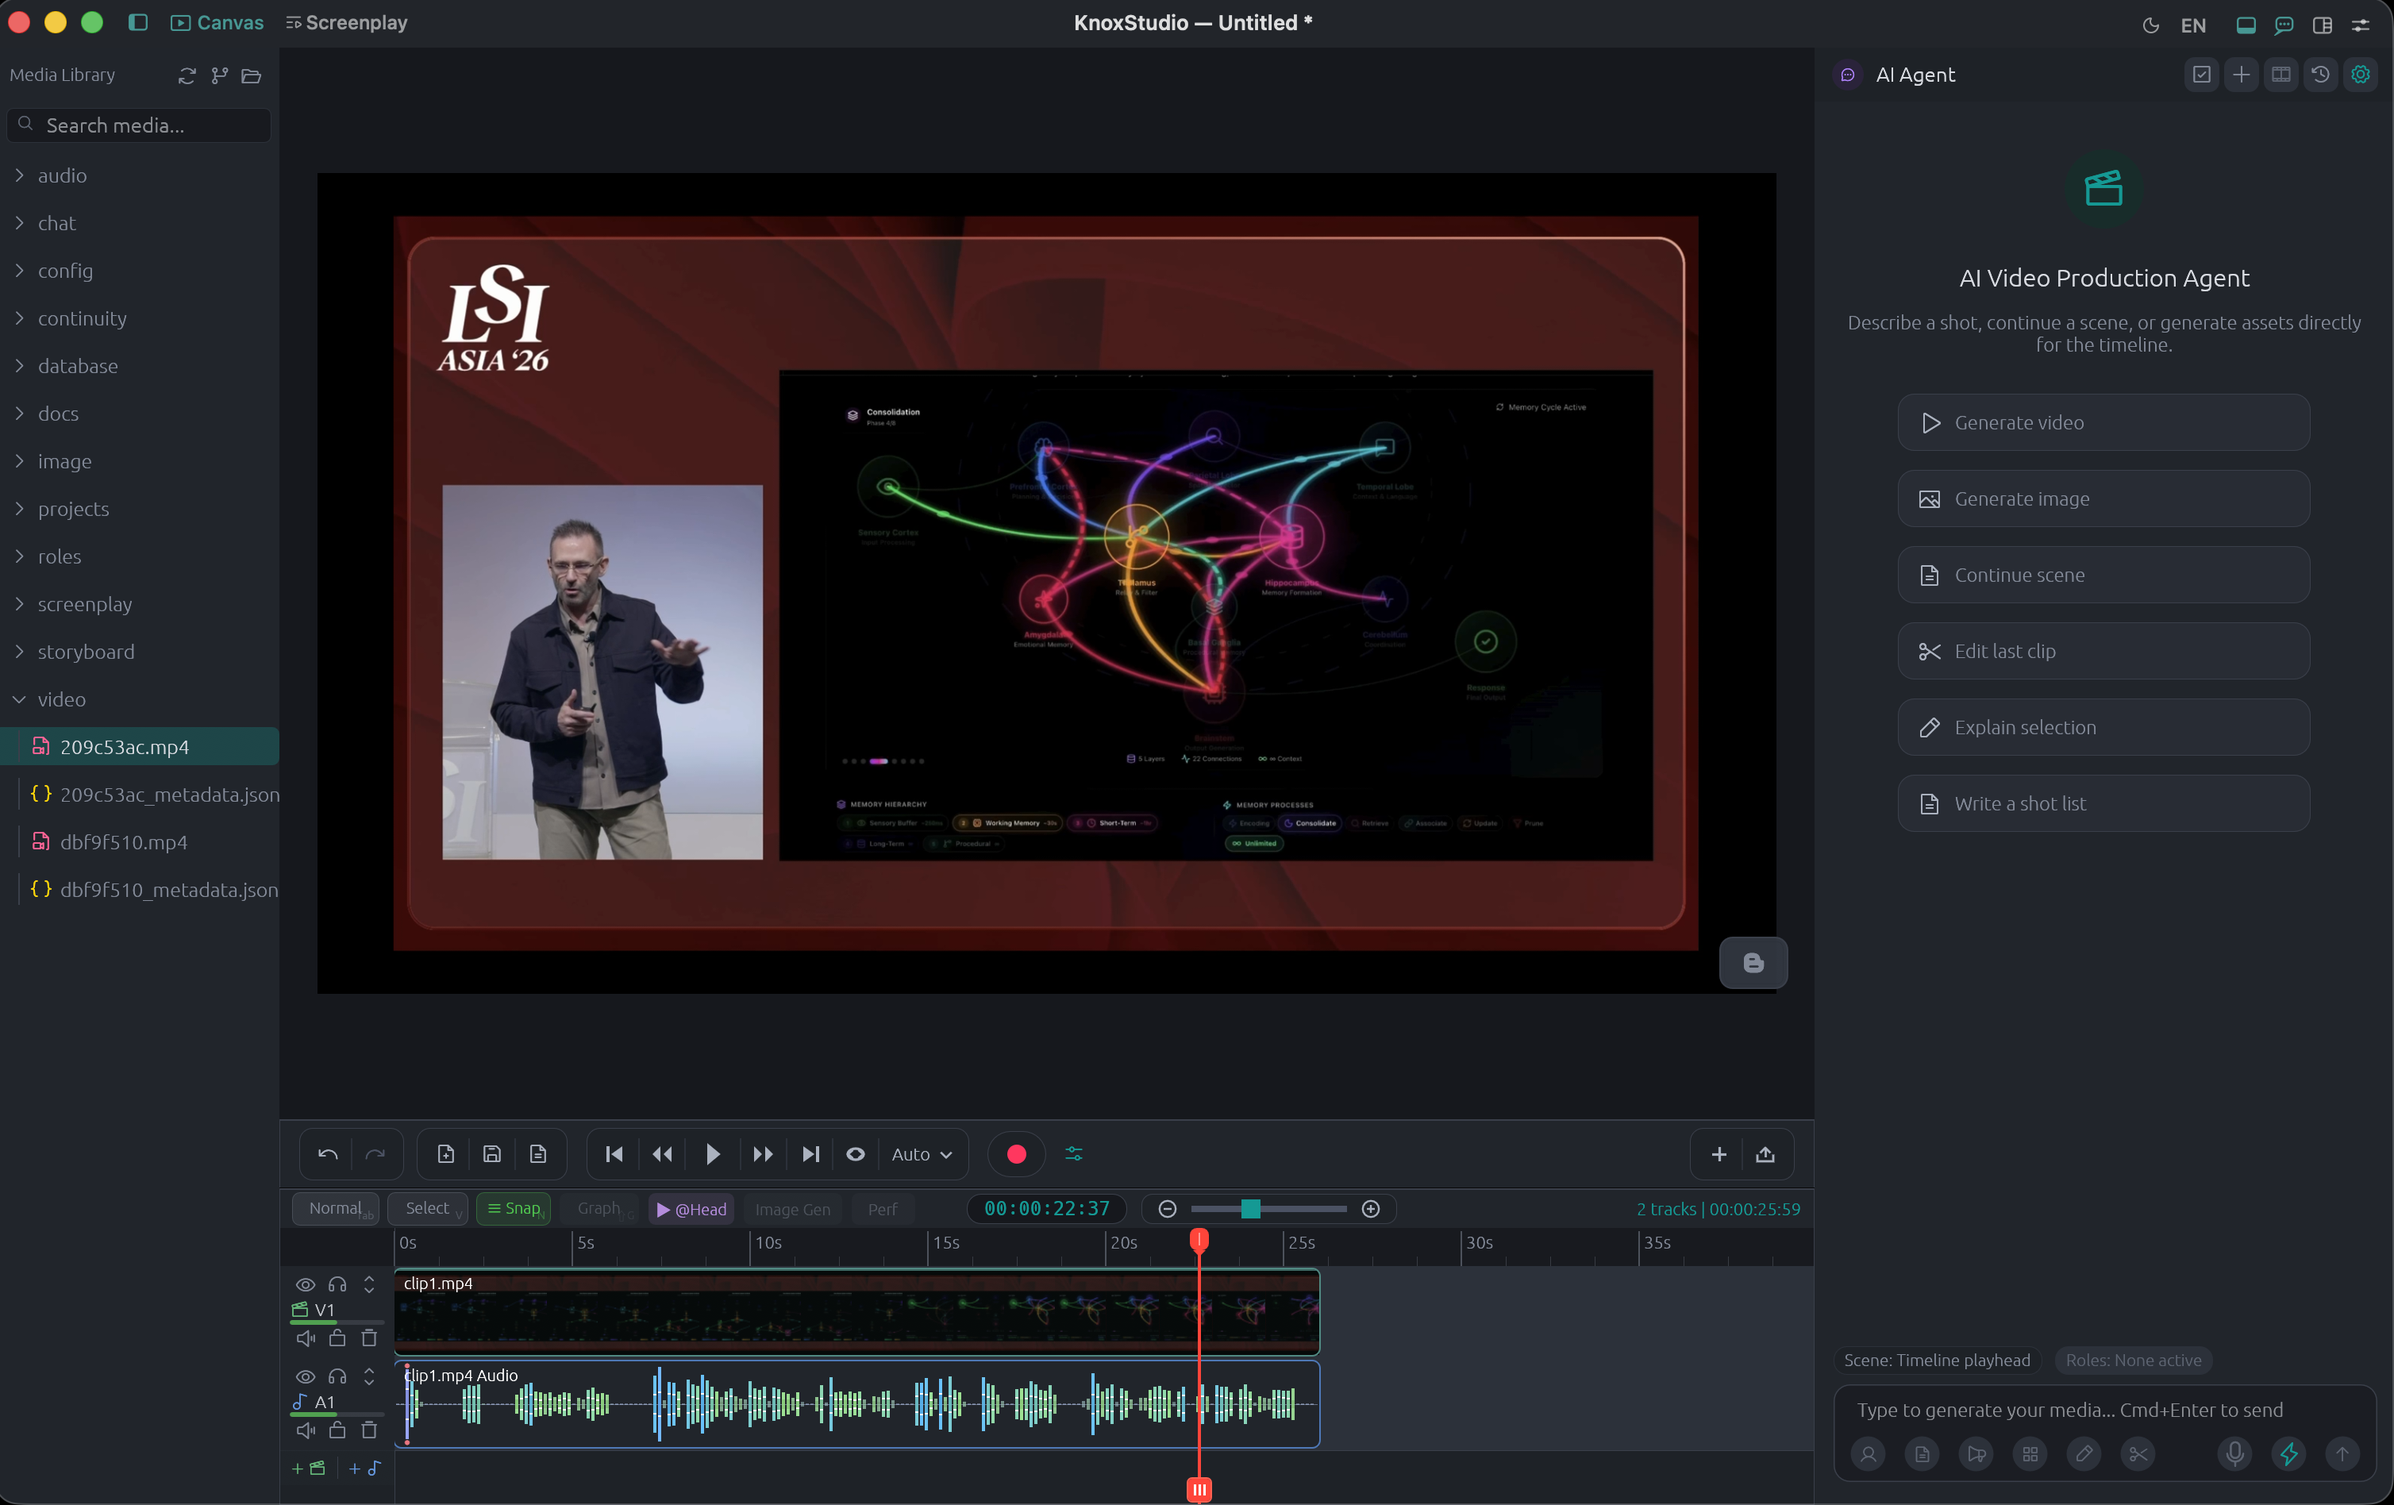
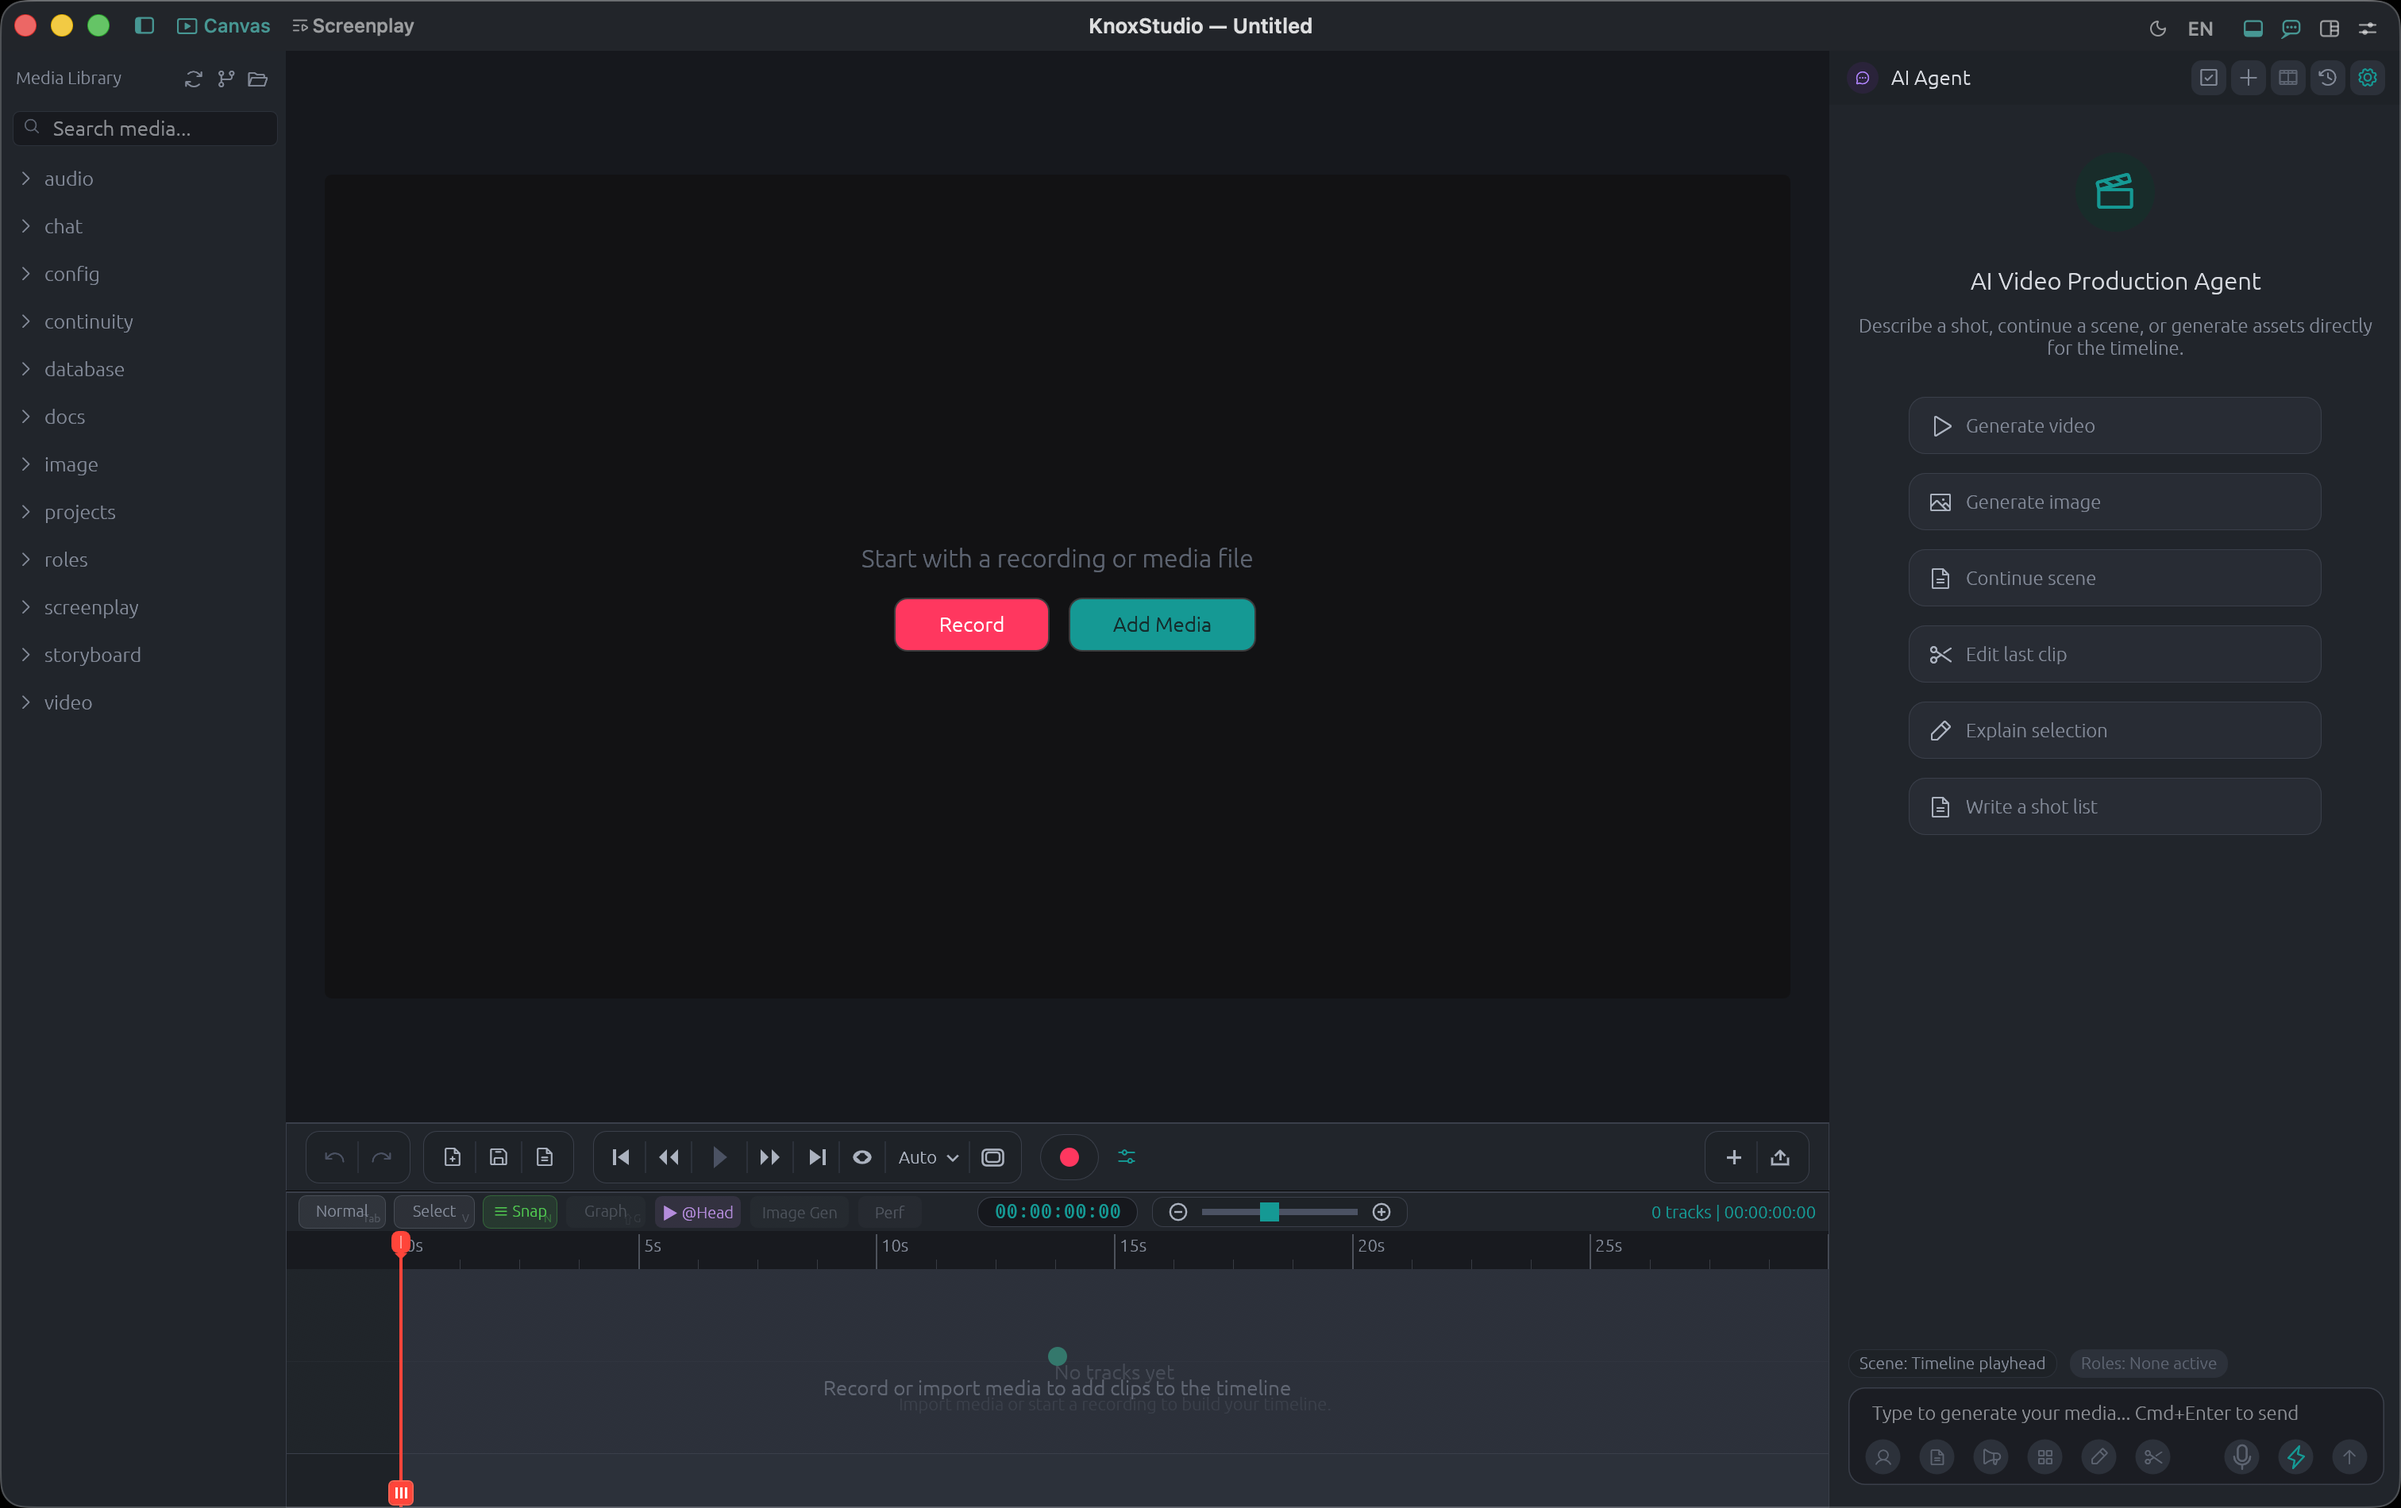
Release version 1.4.3

diff --git a/README.md b/README.md
@@ -11,7 +11,6 @@ Whether you're teaching a course, shipping a product demo, telling a story, or p
 | ![](./media/dark-theme.png) |
 |-|
 
-
 ## Why KnoxStudio?
 
 Most people who make videos juggle a messy stack of tools: one app to record, another to edit, a third for voiceover, a fourth for AI generation, and endless exporting and re-importing in between. It's slow, expensive, and exhausting.
@@ -20,7 +19,6 @@ KnoxStudio replaces that entire stack. Recording, editing, audio, annotations, s
 
 It's built for macOS from the ground up — so it launches fast, stays responsive on long timelines, respects system permissions, and feels at home with keyboard shortcuts, light and dark themes, and a clean interface that gets out of your way.
 
-
 ## Who It's For
 
 - **Educators & course creators** — record lessons, add callouts and numbered steps, and export crisp tutorials.
@@ -28,7 +26,6 @@ It's built for macOS from the ground up — so it launches fast, stays responsiv
 - **Content creators & storytellers** — write a screenplay, let AI direct it into shots, and assemble it on a real timeline.
 - **Founders & professionals** — explain features, pitch ideas, and share knowledge without hiring a video team.
 - **Anyone** who wants studio-quality results without a studio-sized learning curve or budget.
-
 
 ## What You Can Do
 
@@ -85,7 +82,6 @@ Import video, audio, and images by dragging them in. Browse everything in a Medi
 | Screenplay | Markdown, Fountain, plain text, JSON, YAML |
 
 Projects save as `.knoxstudio` documents you can double-click to reopen. Autosave snapshots, recent files, and missing-media relink help keep long projects safe.
-
 
 ## AI That Works Like a Production Crew
 
@@ -164,7 +160,6 @@ Keep your cast consistent across every generated shot:
 
 Generate multiple AI takes, compare them side by side, and choose **Use** on the one that wins. Creative decisions stay yours; the agent just multiplies your options.
 
-
 ## Export Anywhere
 
 When you're done, export exactly what you need — with annotations, click effects, transforms, transitions, and your full multi-track mix rendered faithfully.
@@ -181,7 +176,6 @@ When you're done, export exactly what you need — with annotations, click effec
 
 Choose resolution presets up to **4K**, a percentage of the source, or a custom size. Dial in bitrate and quality (fast / normal / slow). Built-in presets cover common goals — Screen Tutorial 1080p, Course Master 4K, Web Preview 720p, Animated GIF Small, Audio MP3, and Audio WAV — and you can save your own. Filenames follow your project name, progress shows ETA, and output is verified after export so you can publish with confidence.
 
-
 ## What Makes It Different
 
 | Advantage | What it means for you |
@@ -197,11 +191,10 @@ Choose resolution presets up to **4K**, a percentage of the source, or a custom 
 | **Reliable by design** | Autosave with rotating snapshots, crash and recording recovery, project integrity checks, and export verification |
 | **Ready for everyone** | English and Simplified Chinese, approachable UI with pro depth underneath |
 
-
 ## Getting Started
 
 1. **Install KnoxStudio** on your Mac (macOS 13 or later, Apple Silicon or Intel).
-2. **Launch the app** and follow first-run setup — language, theme, media engine check, and permissions for Screen Recording, Camera, and Microphone as needed.
+2. **Launch the app.** Set language and theme in Preferences if you want, and grant Screen Recording, Camera, and Microphone permissions when you start recording.
 3. **Pick how you want to begin:**
    - **Record** your screen, camera, microphone, and system audio
    - **Import** existing video, audio, or images by dragging them in
@@ -214,8 +207,7 @@ Press **?** anytime inside the app for the full keyboard shortcut list.
 
 ### AI setup (optional)
 
-To use Manager, Editor, Director, and generation features, add your [KnoxChat API key](https://knox.chat) in Preferences. Models and capabilities update from the live KnoxChat catalog so you always see what's available. Your keys are stored securely in the macOS Keychain.
-
+To use Manager, Editor, Director, and generation features, open **Preferences → Defaults** and choose **Sign in with KnoxStudio**. The app mints a hidden API key after you allow access in the browser and stores it in the macOS Keychain. You can still paste a key under **Advanced**. Models and capabilities update from the live KnoxChat catalog so you always see what's available.
 
 ## Languages, Themes & Accessibility
 
@@ -223,7 +215,6 @@ To use Manager, Editor, Director, and generation features, add your [KnoxChat AP
 - **Dark** and **Light** themes (including high-contrast variants)
 - Full keyboard navigation and VoiceOver-friendly labels
 - In-app shortcut overlay so power users never have to leave the keyboard
-
 
 ## System Requirements
 
@@ -235,11 +226,18 @@ To use Manager, Editor, Director, and generation features, add your [KnoxChat AP
 | **Projects** | `.knoxstudio` document packages |
 | **Updates** | In-app update checks from official releases; signed and notarized distribution |
 
+## Contributing
+
+Developers: see **[CONTRIBUTING.md](CONTRIBUTING.md)** for setup, the required pre-commit Cargo gate (`fmt --check`, `clippy -D warnings`, `cargo test`), and the pull request process.
+
+```bash
+make setup
+make pre-commit
+```
 
 ## Acknowledgments
 
 KnoxStudio uses **FFmpeg** for media processing. FFmpeg is free software licensed under the [LGPL 2.1 or later](https://www.ffmpeg.org/legal.html). See the About dialog and bundled license materials in the app for details.
-
 
 ## The Bottom Line
 

diff --git a/CONTRIBUTING.md b/CONTRIBUTING.md
@@ -24,18 +24,19 @@ Deeper architecture notes live in [docs/ARCHITECTURE.md](docs/ARCHITECTURE.md). 
 4. [First-time setup](#first-time-setup)
 5. [Repository map](#repository-map)
 6. [Day-to-day development](#day-to-day-development)
-7. [Required quality gate (before every commit)](#required-quality-gate-before-every-commit)
-8. [What each check means](#what-each-check-means)
-9. [Git hook](#git-hook)
-10. [Testing](#testing)
-11. [Code style](#code-style)
-12. [Internationalization](#internationalization)
-13. [Native Swift / FFI](#native-swift--ffi)
-14. [Do not change without review](#do-not-change-without-review)
-15. [Branch, commit, and pull request](#branch-commit-and-pull-request)
-16. [Review checklist](#review-checklist)
-17. [Troubleshooting](#troubleshooting)
-18. [Maintainer-only work](#maintainer-only-work)
+7. [Signing in locally against staging](#signing-in-locally-against-staging)
+8. [Required quality gate (before every commit)](#required-quality-gate-before-every-commit)
+9. [What each check means](#what-each-check-means)
+10. [Git hook](#git-hook)
+11. [Testing](#testing)
+12. [Code style](#code-style)
+13. [Internationalization](#internationalization)
+14. [Native Swift / FFI](#native-swift--ffi)
+15. [Do not change without review](#do-not-change-without-review)
+16. [Branch, commit, and pull request](#branch-commit-and-pull-request)
+17. [Review checklist](#review-checklist)
+18. [Troubleshooting](#troubleshooting)
+19. [Maintainer-only work](#maintainer-only-work)
 
 ---
 
@@ -155,7 +156,7 @@ Screen Recording, Camera, and Microphone permissions are requested when you use 
 
 ```
 knox-studio/
-├── Cargo.toml                 # package knoxstudio 1.3.9, edition 2024, rust-version 1.98.0
+├── Cargo.toml                 # package knoxstudio 1.4.3, edition 2024, rust-version 1.98.0
 ├── rust-toolchain.toml        # pins rustc 1.98.0 + rustfmt + clippy
 ├── Makefile                   # build, test, lint, bundle, release
 ├── build.rs                   # Swift FFI compile, macOS 13 deployment target
@@ -212,6 +213,37 @@ Suggested loop:
 4. Run `cargo fmt --all` while iterating.
 5. Before `git commit`, run `make pre-commit` (the hook will run it anyway).
 6. Open a pull request only when the gate is green.
+
+---
+
+## Signing in locally (OAuth)
+
+`make run` and `cargo run -- --debug` open the **local** website and exchange tokens against the **local** backend. A release build opens `https://knoxstudio.ai/oauth2/authorize` and exchanges tokens at `https://api.knox.chat`.
+
+Prerequisites (already the usual local stack):
+
+1. Backend on `:4000` — `cd backend && cargo run`
+2. Website on `:3001` — `cd website && npm run dev`
+3. Local Postgres has the `knox_studio_desktop` row (migration `202608311800_seed_knoxstudio_desktop_oauth`)
+
+Then in desktop:
+
+```bash
+make run                 # OAuth → http://localhost:3001 and http://localhost:4000
+cargo run -- --debug     # same defaults
+```
+
+Sign in on `http://localhost:3001` if the consent page asks you to log in. The loopback redirect is always `http://127.0.0.1:8732/callback`. Do not pick another port if 8732 is busy — free the port instead. Do not put a client secret in the desktop binary.
+
+A local sign-in mints a key against `localhost:4000`. Manager/Editor still call `https://api.knox.chat` unless you also change those endpoints — use Sign out before a production test so the local `sk-` is not left in Keychain.
+
+To point a debug build at staging or production instead:
+
+```bash
+export KNOX_OAUTH_AUTHORIZE_URL=https://knoxstudio.ai/oauth2/authorize
+export KNOX_OAUTH_API_BASE=https://api.knox.chat
+make run
+```
 
 ---
 

diff --git a/CHANGELOG.md b/CHANGELOG.md
@@ -1,5 +1,21 @@
 # Changelog
 
+## [1.4.3]
+
+- Shortener storyboard_projects to be storyboard for media library list
+- Keeps a quarter-screen of empty room after the last clip
+- Move Title-safe feature to transport from canvas
+- Clickable target in the app uses the pointing-hand cursor instead of the default arrow
+- Modal UI Optimizations
+- Remove First Run Setup modal
+- Remove project template
+- Defaults tab by default with first time app launch
+- Dim covers the strip under the title bar
+- Fix Inspector templates were drawing type larger than their boxes
+- Canvas actions improvement
+- Improve OAuth UX
+- Unchecked the camera stays off — no hardware connection
+
 ## [1.4.2]
 
 ### Added
@@ -632,7 +648,6 @@
 - Autosave snapshots
 - Recent files list
 - Undo/redo history
-- Project templates
 
 ### Technical
 - Rust + Swift FFI architecture
